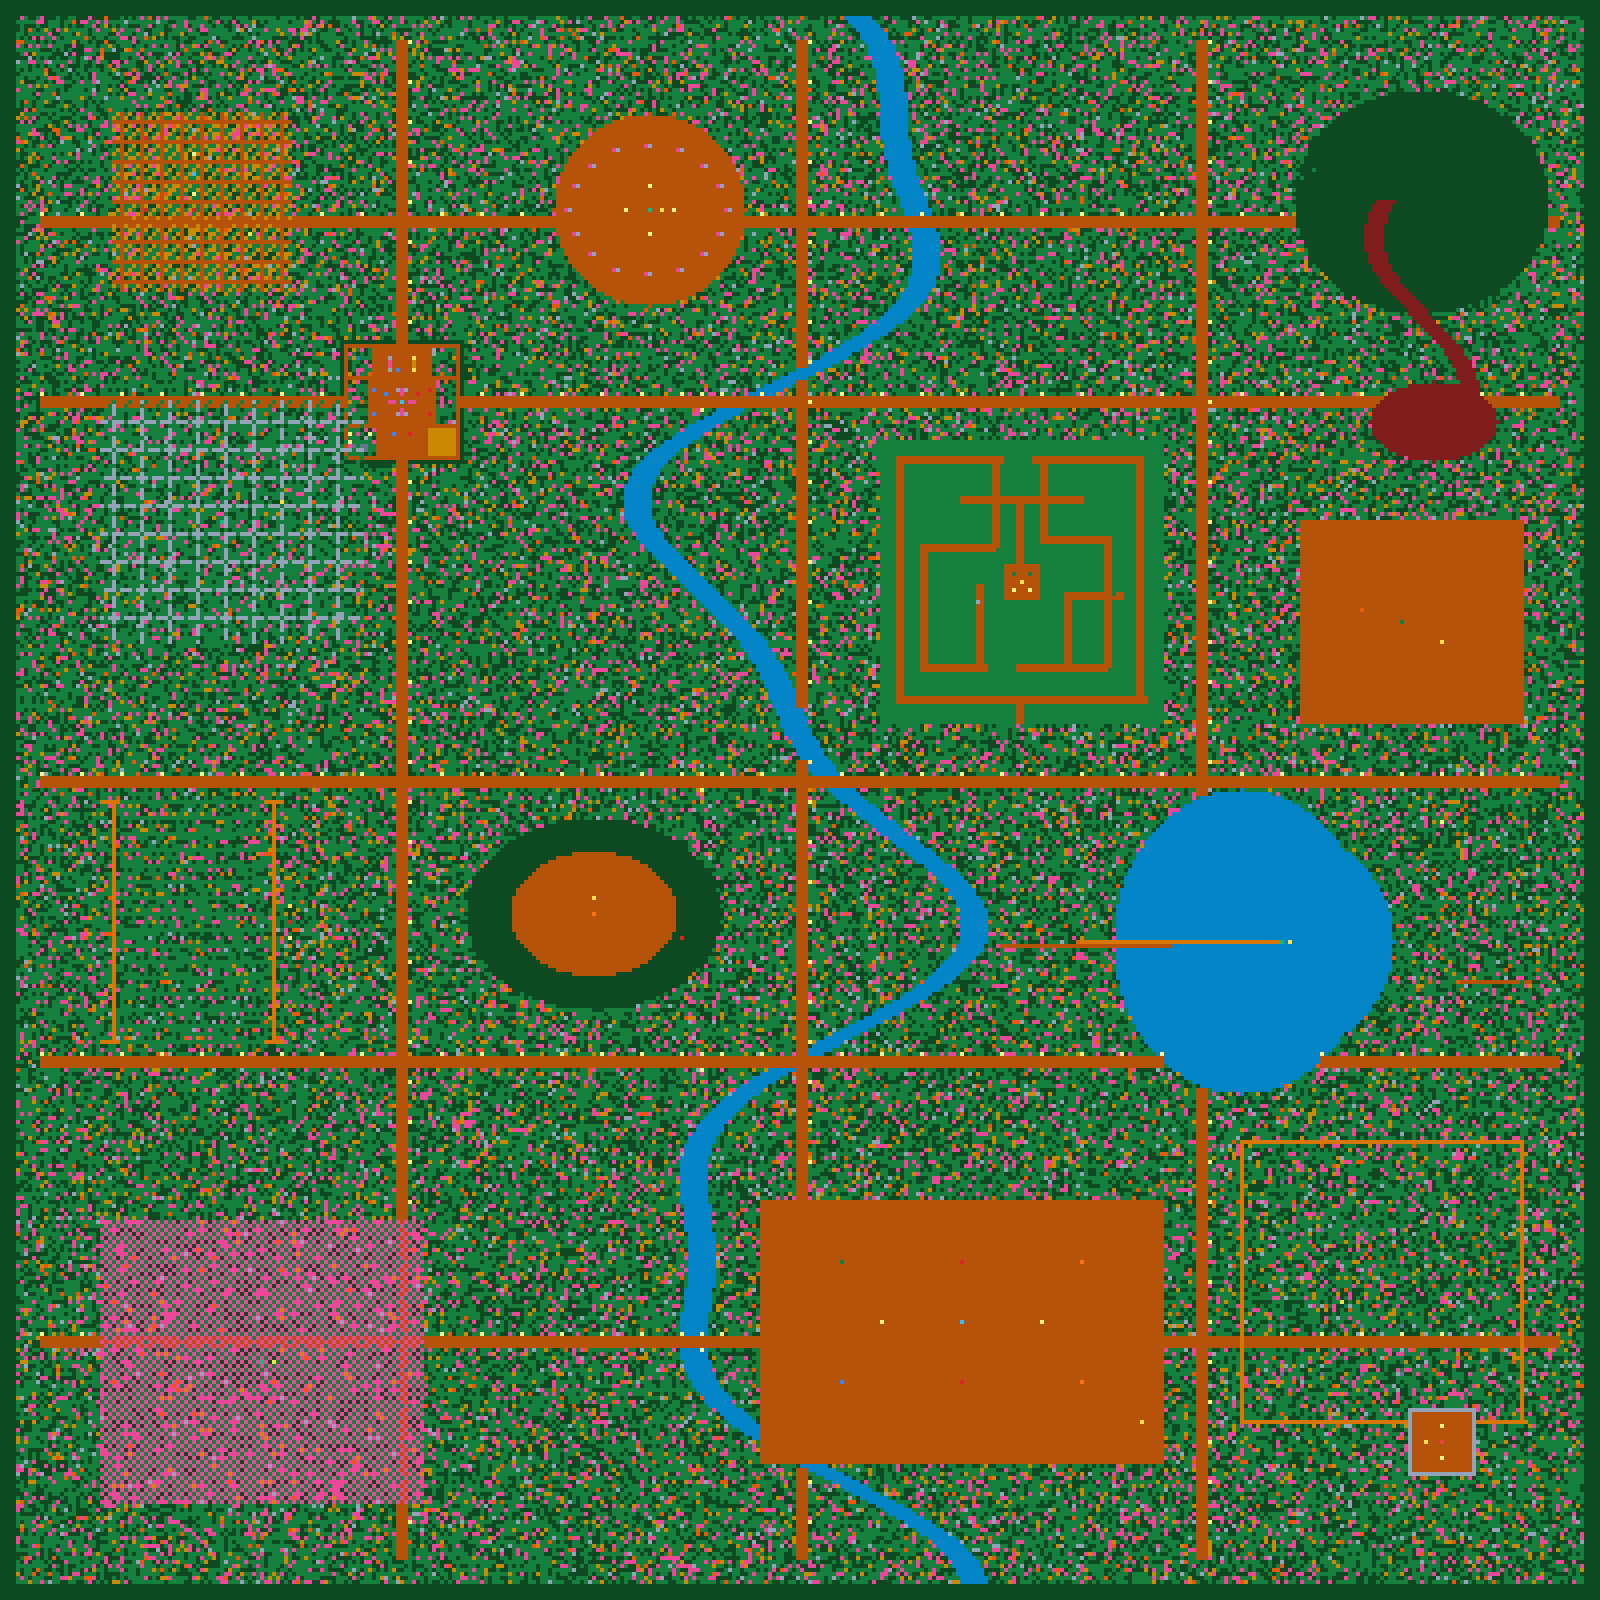
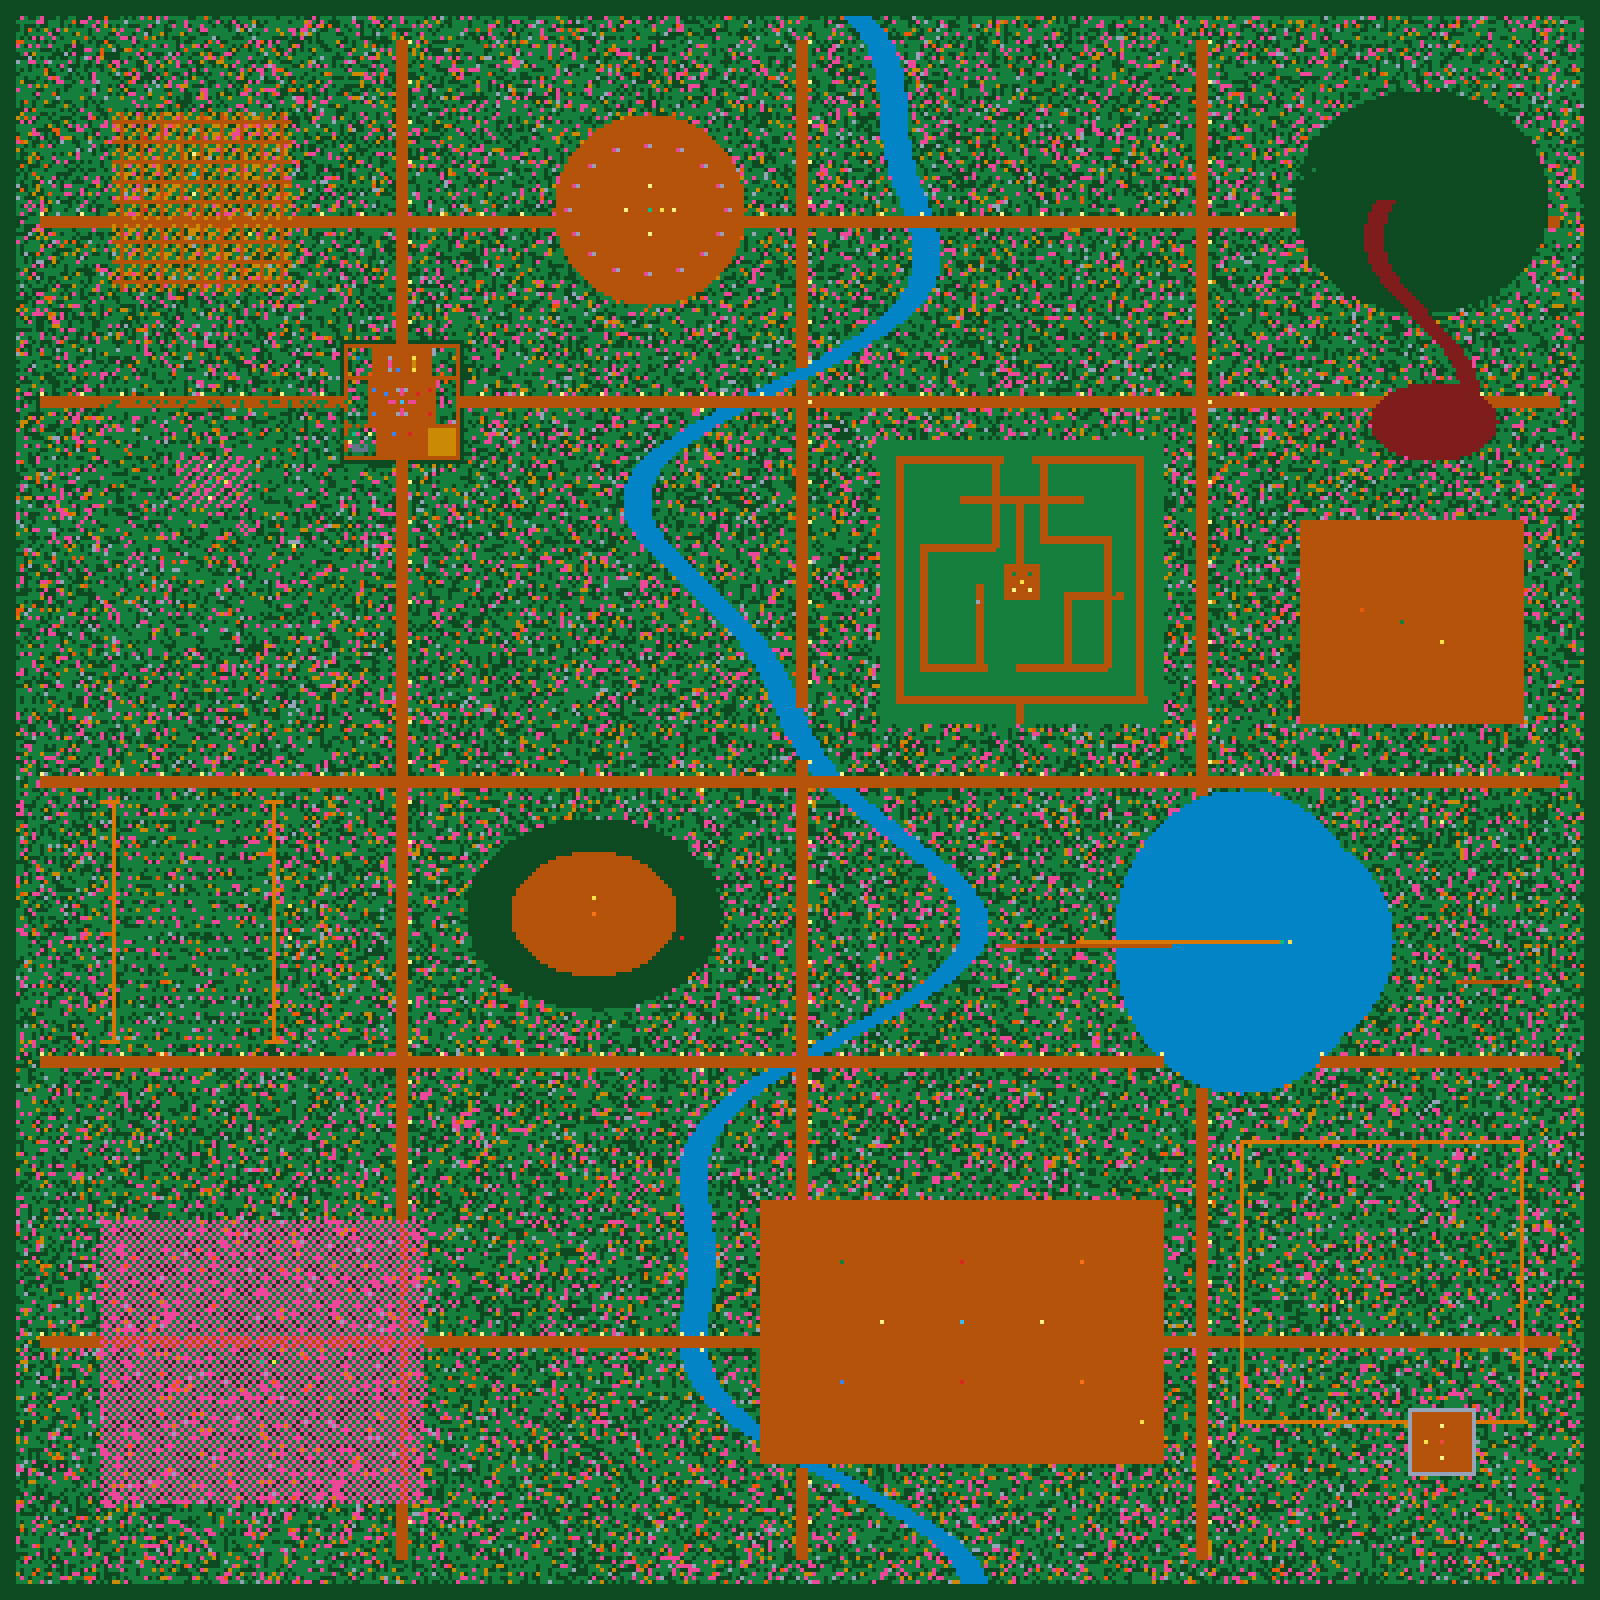
fix: redesign enchanted tree pixel art with gnarled indigo bark and purple leafy layers, and make enchanted forest distribution organic with clearings and ruins

Changed region(s): [[0.0625, 0.25, 0.25, 0.4062]]

diff --git a/src/utils/pixelTilesetGenerator.ts b/src/utils/pixelTilesetGenerator.ts
@@ -974,8 +974,8 @@ export function getChestCanvas(isOpen: boolean = false): HTMLCanvasElement {
 }
 
 /**
- * 🌳 ÁRBOL DEL BOSQUE ENCANTADO (64x64 px)
- * Tronco índigo/violeta con copa resplandeciente turquesa y magenta
+ * 🌳 ÁRBOL DEL BOSQUE ENCANTADO (64x64 px - HD 16-Bit Retro Art)
+ * Tronco retorcido de corteza índigo/violeta con frondosa copa de robles místicos en capas púrpura y turquesa
  */
 export function getEnchantedTreeCanvas(): { trunk: HTMLCanvasElement; canopy: HTMLCanvasElement } {
   const trunk = document.createElement('canvas');
@@ -983,32 +983,73 @@ export function getEnchantedTreeCanvas(): { trunk: HTMLCanvasElement; canopy: HT
   const tCtx = trunk.getContext('2d')!;
   tCtx.imageSmoothingEnabled = false;
 
-  tCtx.fillStyle = 'rgba(0,0,0,0.3)';
-  tCtx.fillRect(6, 26, 36, 6);
+  // Sombra proyectada en el suelo
+  tCtx.fillStyle = 'rgba(15, 23, 42, 0.4)';
+  tCtx.beginPath();
+  tCtx.ellipse(24, 28, 18, 6, 0, 0, Math.PI * 2);
+  tCtx.fill();
 
-  tCtx.fillStyle = '#312e81'; // Índigo oscuro
-  tCtx.fillRect(18, 4, 12, 24);
-  tCtx.fillStyle = '#4338ca'; // Púrpura brillante
-  tCtx.fillRect(20, 6, 8, 20);
-  tCtx.fillStyle = '#6366f1';
-  tCtx.fillRect(22, 8, 3, 16);
+  // Tronco retorcido místico
+  tCtx.fillStyle = '#1e1b4b'; // Índigo profundo
+  tCtx.fillRect(16, 6, 16, 22);
+  tCtx.fillRect(12, 22, 6, 8); // Raíz izquierda
+  tCtx.fillRect(30, 22, 6, 8); // Raíz derecha
+
+  // Vetas y textura de corteza
+  tCtx.fillStyle = '#312e81';
+  tCtx.fillRect(18, 8, 12, 18);
+  tCtx.fillStyle = '#4338ca';
+  tCtx.fillRect(20, 10, 4, 14);
+  tCtx.fillRect(26, 12, 3, 10);
+  tCtx.fillStyle = '#818cf8'; // Reflejo mágico en la corteza
+  tCtx.fillRect(21, 14, 2, 6);
 
   const canopy = document.createElement('canvas');
   canopy.width = 64; canopy.height = 64;
   const cCtx = canopy.getContext('2d')!;
   cCtx.imageSmoothingEnabled = false;
 
-  // Copa mágica degradada turquesa / fucsia
-  cCtx.fillStyle = '#0f766e';
-  cCtx.beginPath(); cCtx.arc(32, 32, 28, 0, Math.PI * 2); cCtx.fill();
-  cCtx.fillStyle = '#06b6d4';
-  cCtx.beginPath(); cCtx.arc(30, 30, 24, 0, Math.PI * 2); cCtx.fill();
-  cCtx.fillStyle = '#67e8f9';
-  cCtx.beginPath(); cCtx.arc(28, 26, 18, 0, Math.PI * 2); cCtx.fill();
-  cCtx.fillStyle = '#ec4899'; // Toque de magia fucsia
-  cCtx.beginPath(); cCtx.arc(38, 24, 10, 0, Math.PI * 2); cCtx.fill();
-  cCtx.fillStyle = '#f472b6';
-  cCtx.beginPath(); cCtx.arc(36, 22, 6, 0, Math.PI * 2); cCtx.fill();
+  // 1. Sombra de la copa
+  cCtx.fillStyle = '#0f172a';
+  cCtx.beginPath();
+  cCtx.arc(32, 36, 26, 0, Math.PI * 2);
+  cCtx.fill();
+
+  // 2. Capa base oscura púrpura/índigo
+  cCtx.fillStyle = '#3b0764';
+  cCtx.beginPath();
+  cCtx.arc(32, 32, 24, 0, Math.PI * 2);
+  cCtx.arc(22, 28, 16, 0, Math.PI * 2);
+  cCtx.arc(42, 28, 16, 0, Math.PI * 2);
+  cCtx.arc(32, 18, 16, 0, Math.PI * 2);
+  cCtx.fill();
+
+  // 3. Bloques de follaje medio amatista / violeta
+  cCtx.fillStyle = '#6b21a8';
+  cCtx.beginPath();
+  cCtx.arc(26, 24, 14, 0, Math.PI * 2);
+  cCtx.arc(38, 22, 14, 0, Math.PI * 2);
+  cCtx.arc(32, 30, 14, 0, Math.PI * 2);
+  cCtx.fill();
+
+  // 4. Luces superiores fucsia y turquesa místico
+  cCtx.fillStyle = '#9333ea';
+  cCtx.beginPath();
+  cCtx.arc(24, 18, 10, 0, Math.PI * 2);
+  cCtx.arc(36, 16, 10, 0, Math.PI * 2);
+  cCtx.fill();
+
+  // Toques de brillo turquesa y flores mágicas
+  cCtx.fillStyle = '#38bdf8';
+  cCtx.fillRect(20, 14, 4, 3);
+  cCtx.fillRect(34, 12, 4, 3);
+  cCtx.fillRect(28, 22, 3, 3);
+
+  cCtx.fillStyle = '#f472b6'; // Esporas fucsias luminiscentes
+  cCtx.fillRect(16, 24, 2, 2);
+  cCtx.fillRect(44, 20, 2, 2);
+  cCtx.fillRect(30, 10, 2, 2);
+  cCtx.fillRect(38, 28, 2, 2);
 
   return { trunk, canopy };
 }

diff --git a/src/data/worldMapGenerator400.ts b/src/data/worldMapGenerator400.ts
@@ -285,13 +285,35 @@ export function generateForest400(): {
   // 4. 🍄 EL BOSQUE ENCANTADO (Oeste Superior: X: 20..95, Y: 95..165)
   for (let y = 100; y <= 160; y++) {
     for (let x = 25; x <= 90; x++) {
-      if ((x + y) % 4 === 0) map[y][x] = 20; // Árboles mágicos azul/violeta & setas
-      else if ((x * y) % 7 === 0) map[y][x] = 18; // Arcos de piedra en ruinas
+      const val = prng(x, y, 777);
+      if (val < 0.16) {
+        map[y][x] = 20; // Árbol místico índigo/púrpura
+      } else if (val < 0.22) {
+        map[y][x] = 28; // Cristal de maná brillante
+      }
     }
   }
-  map[130][55] = 8;  // Santuario Místico
-  map[135][55] = 28; // Cristal de maná gigante
-  map[125][70] = 7;  // Cofre Arcano
+
+  // Claro Mágico de las Setas Gigantes (X: 42..65, Y: 112..128)
+  for (let y = 114; y <= 126; y++) {
+    for (let x = 44; x <= 62; x++) {
+      if ((x + y) % 3 === 0) map[y][x] = 12; // Flores místicas
+      else if ((x * y) % 5 === 0) map[y][x] = 28; // Cristales
+    }
+  }
+  map[120][52] = 8;  // Santuario Místico del Bosque
+  map[120][56] = 7;  // Cofre Arcano del Bosque
+  map[116][52] = 17; map[124][52] = 17;
+
+  // Ruinas de Arcos de Piedra y Musgo (X: 30..45, Y: 140..152)
+  for (let x = 32; x <= 44; x += 4) {
+    map[142][x] = 18; map[150][x] = 18;
+  }
+  map[146][38] = 19; // Fogata feérica
+
+  // Entrada de la Caverna Secreta (X: 72, Y: 135)
+  map[135][72] = 18; map[135][73] = 18; map[135][74] = 18;
+  map[136][73] = 7; // Cofre de la Caverna
 
   // 5. 🌿 EL LABERINTO ENCANTADO REAL (Centro: X: 215..295, Y: 105..185)
   // Llenar todo el cuadrante con muros de setos impenetrables
